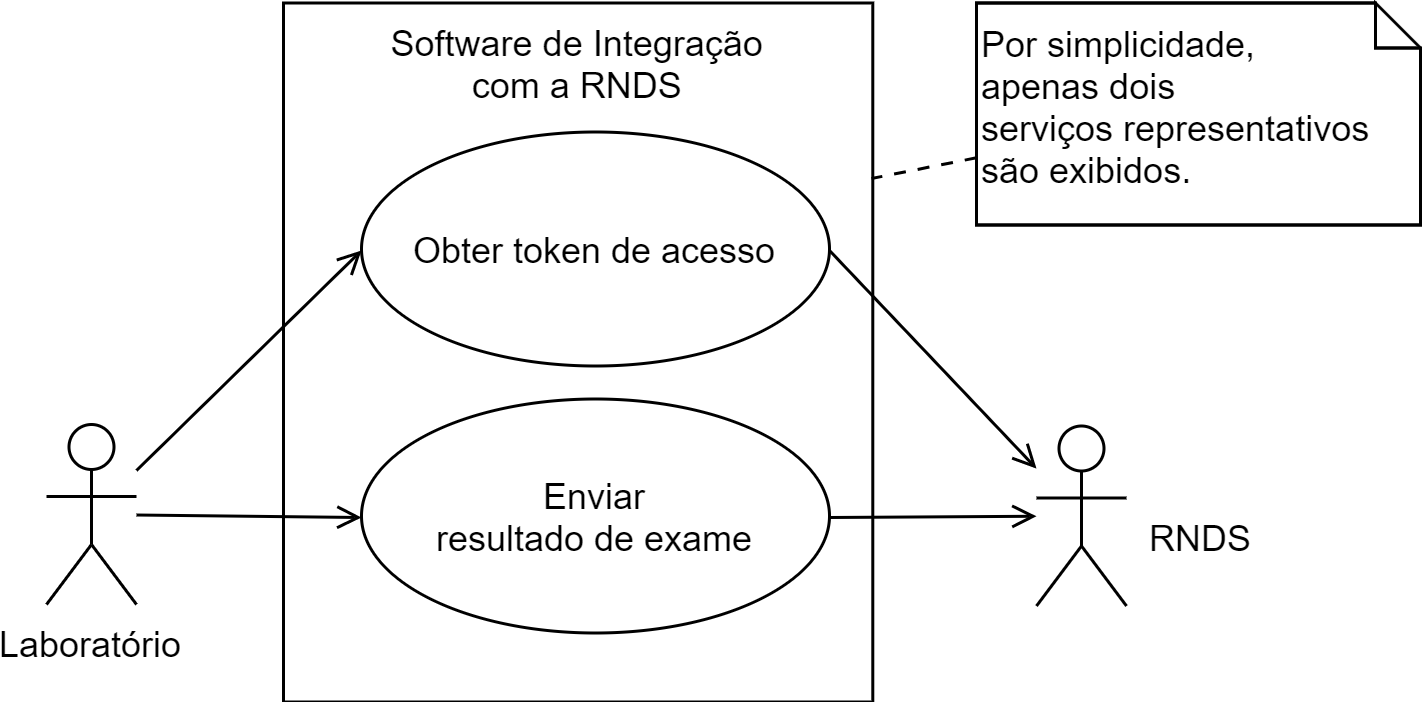
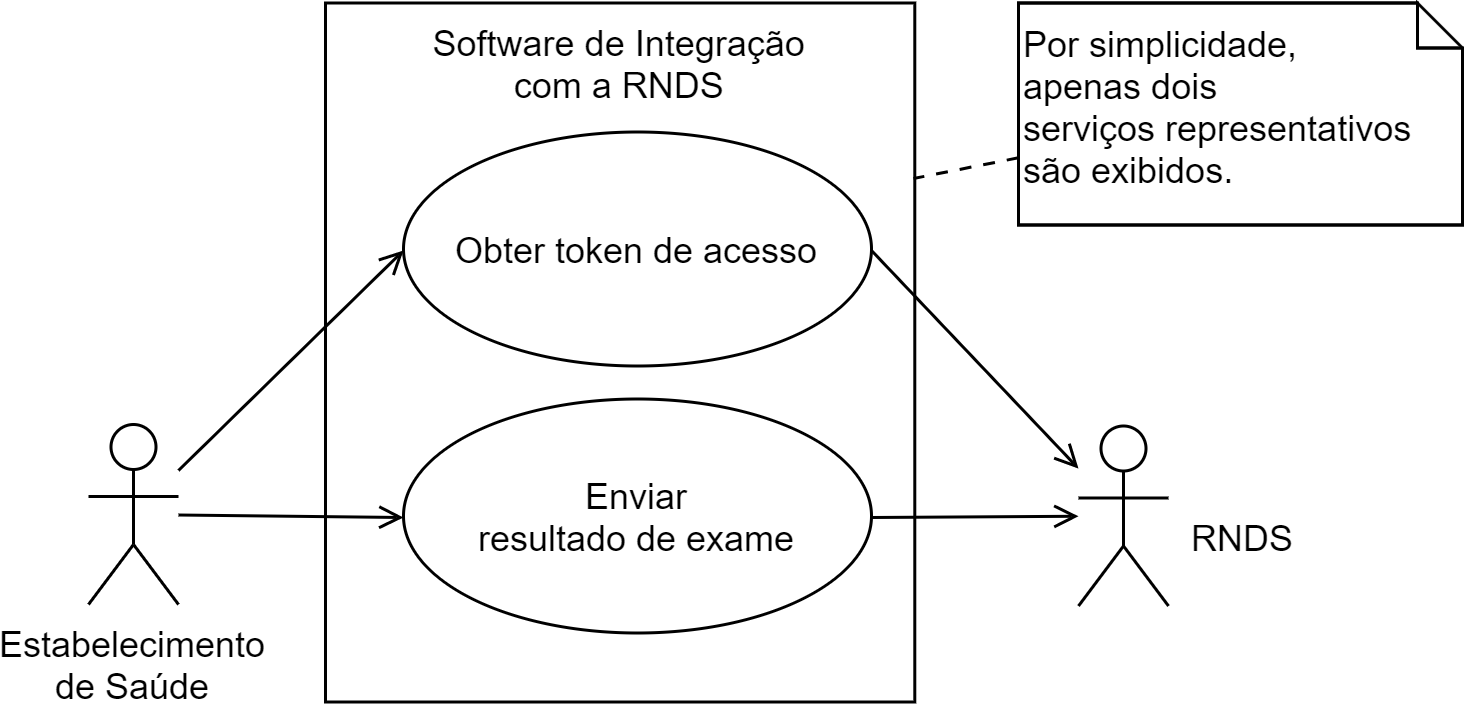
curso de adoção da RNDS

diff --git a/guia/docs/rel/ti/si.md b/guia/docs/rel/ti/si.md
@@ -33,20 +33,31 @@ interesses locais de todo o planeta, o padrão inclui instrumentos para "persona
 
 O software de um SIS e a RNDS são “independentes”, podem evoluir independentemente, podem fazer uso de tecnologias distintas, linguagens de programação distintas e sistemas operacionais distintos, desde que conectados à internet e obedecendo o contrato, o SIS em execução local (_on premise_) ou nas "nuvens", a interação pode ocorrer. Nenhum deles depende ou impõe restrições ao outro. O contrato é a personalização nacional (adaptação).
 
-## Desenvolvimento
+## Desenvolvimento de referência
 
-Antes do início de um esforço de desenvolvimento de software propriamente dito, é razoável uma análise das funcionalidades esperadas no software a ser desenvolvido, bem como de oções de _design_. Naturalmente, tendo em vista as especificidades de cada cenário de integração de um estabelecimento de saúde com a RNDS, não é possível definir uma análise e _design_ adequados para todos eles, contudo, isto não impede uma investigação preliminar, que pode fornecer um ponto de referência e orientar integradores.
+Antes do início de um esforço de desenvolvimento de software propriamente dito, é razoável uma análise das funcionalidades esperadas no software a ser desenvolvido, bem como de oções de _design_. Naturalmente, tendo em vista as especificidades de cada cenário de integração de um estabelecimento de saúde com a RNDS, não é possível definir uma análise e _design_ adequados para todos eles, contudo, isto não impede uma investigação preliminar, que ofereça uma referência para orientar integradores.
 
 ### Análise
 
-O _software_ de integração com a RNDS visa atender alguma demanda, neste contexto, a Portaria 1.792, que determina a obrigatoriedade de notificação de resultados de exame da COVID-19.
+#### Escopo
 
-Convém observar que outros cenários poderão ser tratados de forma similar e, portanto, a análise e o _design_ permanecem relevantes para outros tipos de exames, outras informações e, naturalmente, não apenas laboratórios.
+O _software_ de integração com a RNDS, como qualquer outro, visa atender alguma demanda. Para o desenvolvimento de referência tal demanda (escopo) é a Portaria 1.792, que determina a obrigatoriedade de notificação de resultados de exame da COVID-19.
 
-O diagrama acima contempla _Obter token de acesso_ e _Enviar resultado de exame_, não apenas por serem os principais, mas porque cobrem tudo o
-que é necessário nos demais serviços.
+Convém observar que este escopo é o primeiro contemplado pela RNDS que, ao longo do tempo, incluirá outros como o Sumário de Alta (SA) e o Registro de Atendimento Clínico (RAC), por exemplo. À medida que novas necessidades de integração forem implementadas pela RNDS,
+mais informações em saúde e outros tipos de estabelecimentos de saúde estarão envolvidos.
+
+![img](../../../static/img/rnds-curso.png)
+
+#### Requisitos
+
+Toda a integração no escopo identificado acima pode ser suficientemente representada por dois casos de uso: _Obter token de acesso_ e _Enviar resultado de exame_. Respectivamente cobrindo a segurança e uma necessidade de interoperabilidade em saúde.
 
 ![img](../../../static/img/rnds-uc.png)
+
+Conforme mencionado anteriormente, ao longo do tempo novos casos de uso serão acrescentados,
+contudo, acredita-se que estes dois capturem o que é relevante e provavelmente será necessário em toda e qualquer integração.
+
+##### Obter token de acesso
 
 Na perspectiva de processos (funções) e do fluxo de informações entre eles, o diagrama correspondente é fornecido abaixo. Aqueles destacados estão diretamente associados aos casos de uso identificados acima, ou seja, fazem parte do escopo a ser implementado. Os demais processos (funções) são necessários, mas ao mesmo tempo, dependentes do ecossistema do laboratório.
 
